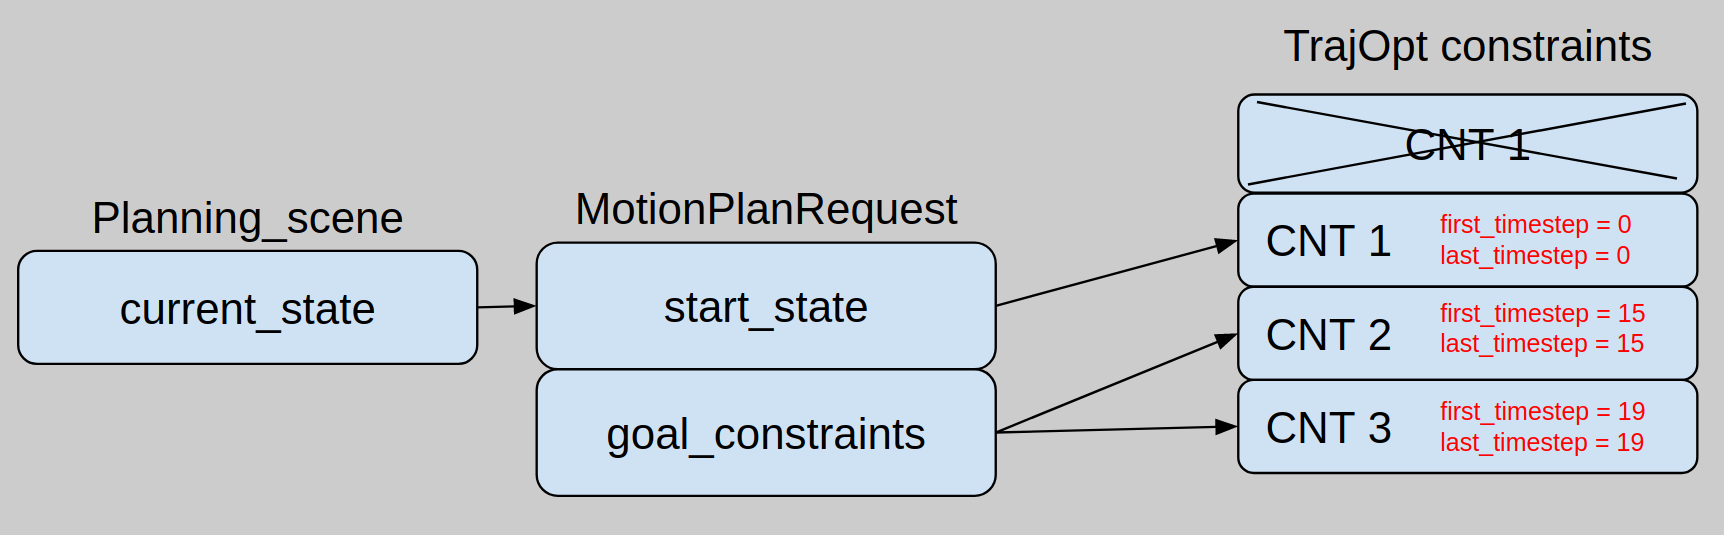
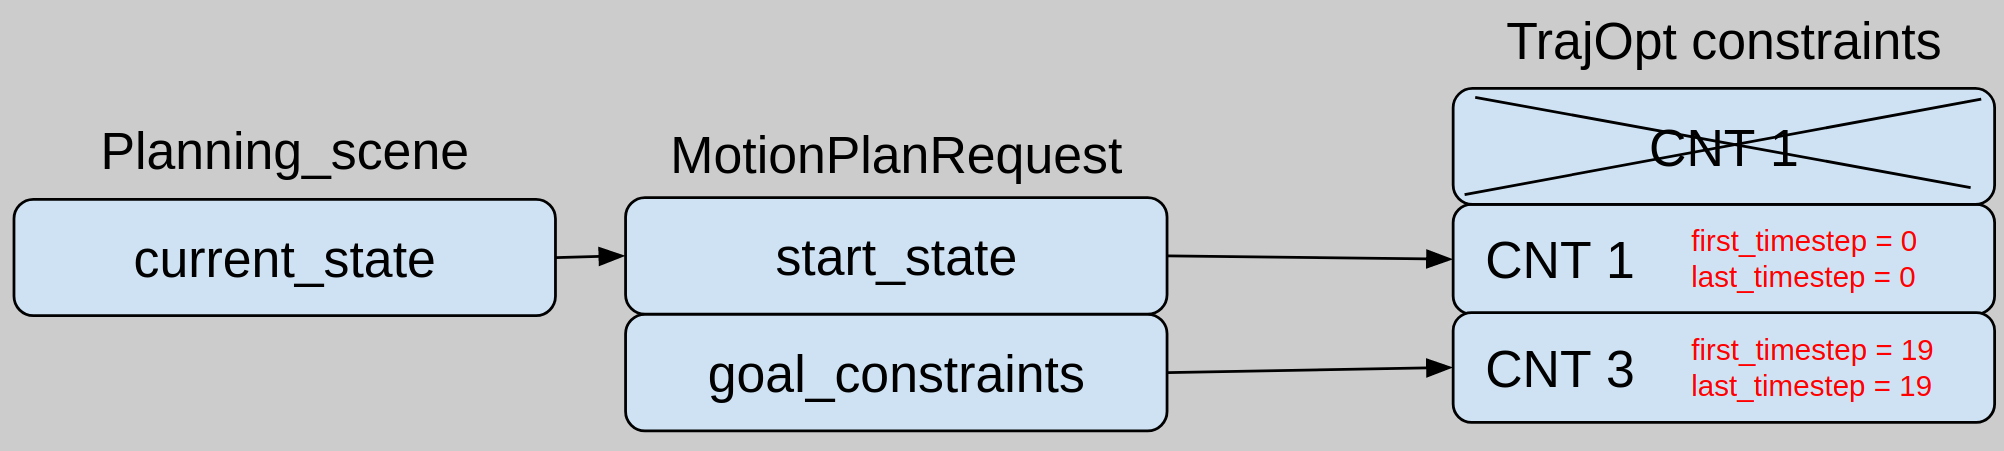
addressed the comments

diff --git a/doc/trajopt_planner/src/trajopt_example.cpp b/doc/trajopt_planner/src/trajopt_example.cpp
@@ -2,13 +2,10 @@
 #include <ros/console.h>
 #include <moveit/planning_interface/planning_interface.h>
 
-#include <moveit/move_group_interface/move_group_interface.h>
-#include <moveit/planning_scene_interface/planning_scene_interface.h>
-
 #include <moveit/robot_model_loader/robot_model_loader.h>
 #include <moveit/planning_scene/planning_scene.h>
 #include <moveit/robot_state/robot_state.h>
-
+#include <moveit/planning_pipeline/planning_pipeline.h>
 #include <moveit/planning_scene_monitor/planning_scene_monitor.h>
 #include <moveit/kinematic_constraints/utils.h>
 #include <moveit_visual_tools/moveit_visual_tools.h>
@@ -41,23 +38,42 @@ int main(int argc, char** argv)
   const std::string ROBOT_DESCRIPTION = "robot_description";
   robot_model_loader::RobotModelLoaderPtr robot_model_loader(
       new robot_model_loader::RobotModelLoader(ROBOT_DESCRIPTION));
+
+  // Create a planing scene monitor
+  planning_scene_monitor::PlanningSceneMonitorPtr psm(
+      new planning_scene_monitor::PlanningSceneMonitor(robot_model_loader));
+
+  psm->startSceneMonitor();
+  psm->startWorldGeometryMonitor();
+  psm->startStateMonitor();
+
   robot_model::RobotModelPtr robot_model = robot_model_loader->getModel();
 
-  // Create a RobotState and JointModelGroup to keep track of the current robot pose and planning group
-  robot_state::RobotStatePtr current_state(new robot_state::RobotState(robot_model));
-  current_state->setToDefaultValues();
+  // Create a RobotState and to keep track of the current robot pose and planning group
+  robot_state::RobotStatePtr robot_state(
+      new robot_state::RobotState(planning_scene_monitor::LockedPlanningSceneRO(psm)->getCurrentState()));
+  robot_state->setToDefaultValues();
+  robot_state->update();
 
-  const robot_state::JointModelGroup* joint_model_group = current_state->getJointModelGroup(PLANNING_GROUP);
+  // Create JointModelGroup
+  const robot_state::JointModelGroup* joint_model_group = robot_state->getJointModelGroup(PLANNING_GROUP);
   const std::vector<std::string>& joint_names = joint_model_group->getActiveJointModelNames();
+  const std::vector<std::string>& link_model_names = joint_model_group->getLinkModelNames();
+  ROS_INFO_NAMED(NODE_NAME, "end effector name %s\n", link_model_names.back().c_str());
 
-  // With the planning scene we create a planing scene monitor
-  planning_scene_monitor::PlanningSceneMonitorPtr psm(new planning_scene_monitor::PlanningSceneMonitor(ROBOT_DESCRIPTION));
-  psm->startPublishingPlanningScene(planning_scene_monitor::PlanningSceneMonitor::UPDATE_SCENE);
-  psm->startStateMonitor();
-  psm->startSceneMonitor();
+  // Set the planner
+  std::string planner_plugin_name = "trajopt_interface/TrajOptPlanner";
+  node_handle.setParam("planning_plugin", planner_plugin_name);
 
-  planning_scene::PlanningScenePtr planning_scene = psm->getPlanningScene();
+  // Create pipeline
+  planning_pipeline::PlanningPipelinePtr planning_pipeline(
+     new planning_pipeline::PlanningPipeline(robot_model, node_handle, "planning_plugin", "request_adapters"));
 
+  // Current state
+  geometry_msgs::Pose pose_msg_current;
+  const Eigen::Isometry3d& end_effector_transform_current = robot_state->getGlobalLinkTransform(link_model_names.back());
+  pose_msg_current = tf2::toMsg(end_effector_transform_current);
+  
   // Create response and request
   planning_interface::MotionPlanRequest req;
   planning_interface::MotionPlanResponse res;
@@ -74,94 +90,38 @@ int main(int argc, char** argv)
   //   -2.8973  2.8973
 
   std::vector<double> start_joint_values = { 0.4, 0.3, 0.5, -0.55, 0.88, 1.0, -0.075 };
-  robot_state::RobotStatePtr start_state(new robot_state::RobotState(robot_model));
-  start_state->setJointGroupPositions(joint_model_group, start_joint_values);
-  start_state->update();
+  robot_state->setJointGroupPositions(joint_model_group, start_joint_values);
+  robot_state->update();
 
   req.start_state.joint_state.name = joint_names;
   req.start_state.joint_state.position = start_joint_values;
   req.goal_constraints.clear();
   req.group_name = PLANNING_GROUP;
 
-  // Set the middle and goal state and joints tolerance
+  geometry_msgs::Pose pose_msg_start;
+  const Eigen::Isometry3d& end_effector_transform_start = robot_state->getGlobalLinkTransform(link_model_names.back());
+  pose_msg_start = tf2::toMsg(end_effector_transform_start);
+  
+  // Set the goal state 
   // ========================================================================================
-  robot_state::RobotStatePtr middle_state(new robot_state::RobotState(robot_model));
-  std::vector<double> middle_joint_values = { 0.5, 0.4, 0.65, -0.75, 1.05, 1.25, -0.15 };
-  middle_state->setJointGroupPositions(joint_model_group, middle_joint_values);
-  middle_state->update();
-  moveit_msgs::Constraints joint_middle =
-      kinematic_constraints::constructGoalConstraints(*middle_state, joint_model_group);
-  req.goal_constraints.push_back(joint_middle);
-  req.goal_constraints[0].name = "middle_pos";
+  std::vector<double> goal_joint_values = { 0.8, 0.7, 1, -1.3, 1.9, 2.2, -0.1 };
+  robot_state->setJointGroupPositions(joint_model_group, goal_joint_values);
+  robot_state->update();
+  moveit_msgs::Constraints joint_goal = kinematic_constraints::constructGoalConstraints(*robot_state, joint_model_group);
+  req.goal_constraints.push_back(joint_goal);
+  req.goal_constraints[0].name = "goal_pos";
   // Set joint tolerance
-  std::vector<moveit_msgs::JointConstraint> middle_joint_constraint = req.goal_constraints[0].joint_constraints;
-  for (std::size_t x = 0; x < middle_joint_constraint.size(); ++x)
+  std::vector<moveit_msgs::JointConstraint> goal_joint_constraint = req.goal_constraints[0].joint_constraints;
+  for (std::size_t x = 0; x < goal_joint_constraint.size(); ++x)
   {
-    ROS_INFO_STREAM_NAMED(NODE_NAME, " ======================================= joint position at goal: " <<
-                           middle_joint_constraint[x].position);
+    ROS_INFO_STREAM_NAMED(NODE_NAME ," ======================================= joint position at goal: " << goal_joint_constraint[x].position);
     req.goal_constraints[0].joint_constraints[x].tolerance_above = 0.001;
     req.goal_constraints[0].joint_constraints[x].tolerance_below = 0.001;
   }
 
-  robot_state::RobotStatePtr goal_state(new robot_state::RobotState(robot_model));
-  std::vector<double> goal_joint_values = { 0.8, 0.7, 1, -1.3, 1.9, 2.2, -0.1 };
-  goal_state->setJointGroupPositions(joint_model_group, goal_joint_values);
-  goal_state->update();
-  moveit_msgs::Constraints joint_goal = kinematic_constraints::constructGoalConstraints(*goal_state, joint_model_group);
-  req.goal_constraints.push_back(joint_goal);
-  req.goal_constraints[1].name = "goal_pos";
-  // Set joint tolerance
-  std::vector<moveit_msgs::JointConstraint> goal_joint_constraint = req.goal_constraints[1].joint_constraints;
-  for (std::size_t x = 0; x < goal_joint_constraint.size(); ++x)
-  {
-    ROS_INFO_STREAM_NAMED(NODE_NAME ," ======================================= joint position at goal: " << goal_joint_constraint[x].position);
-    req.goal_constraints[1].joint_constraints[x].tolerance_above = 0.001;
-    req.goal_constraints[1].joint_constraints[x].tolerance_below = 0.001;
-  }
-
-  // Load planner
-  // ======================================================================================
-  while (!psm->getStateMonitor()->haveCompleteState() && ros::ok())
-  {
-    ROS_INFO_STREAM_THROTTLE_NAMED(1, NODE_NAME, "Waiting for complete state from topic ");
-  }
-  // We will now construct a loader to load a planner, by name.
-  // Note that we are using the ROS pluginlib library here.
-  boost::scoped_ptr<pluginlib::ClassLoader<planning_interface::PlannerManager>> planner_plugin_loader;
-  planning_interface::PlannerManagerPtr planner_instance;
-
-  std::string planner_plugin_name = "trajopt_interface/TrajOptPlanner";
-  node_handle.setParam("planning_plugin", planner_plugin_name);
-
-  // Make sure the planner plugin is loaded
-  if (!node_handle.getParam("planning_plugin", planner_plugin_name))
-    ROS_FATAL_STREAM_NAMED(NODE_NAME, "Could not find planner plugin name");
-  try
-  {
-    planner_plugin_loader.reset(new pluginlib::ClassLoader<planning_interface::PlannerManager>(
-        "moveit_core", "planning_interface::PlannerManager"));
-    ROS_INFO_STREAM_NAMED(NODE_NAME, "planner_plugin_name: " << planner_plugin_name);
-  }
-  catch (pluginlib::PluginlibException& ex)
-  {
-    ROS_FATAL_STREAM_NAMED(NODE_NAME, "Exception while creating planning plugin loader " << ex.what());
-  }
-  try
-  {
-    planner_instance.reset(planner_plugin_loader->createUnmanagedInstance(planner_plugin_name));
-    if (!planner_instance->initialize(robot_model, node_handle.getNamespace()))
-      ROS_FATAL_STREAM_NAMED(NODE_NAME, "Could not initialize planner instance");
-    ROS_INFO_STREAM_NAMED(NODE_NAME ,"Using planning interface '" << planner_instance->getDescription() << "'");
-  }
-  catch (pluginlib::PluginlibException& ex)
-  {
-    const std::vector<std::string>& classes = planner_plugin_loader->getDeclaredClasses();
-    std::stringstream ss;
-    for (std::size_t i = 0; i < classes.size(); ++i)
-      ss << classes[i] << " ";
-    ROS_ERROR_STREAM_NAMED(NODE_NAME, "Exception while loading planner '" << planner_plugin_name << "': " << ex.what() << std::endl
-                                                         << "Available plugins: " << ss.str());
-  }
+  geometry_msgs::Pose pose_msg_goal;
+  const Eigen::Isometry3d& end_effector_transform_goal = robot_state->getGlobalLinkTransform(link_model_names.back());
+  pose_msg_goal = tf2::toMsg(end_effector_transform_goal);
 
   // Visualization
   // ========================================================================================
@@ -187,15 +147,19 @@ int main(int argc, char** argv)
   /* We can also use visual_tools to wait for user input */
   visual_tools.prompt("Press 'next' in the RvizVisualToolsGui window to start the demo");
 
-  // Creat planning context
+  // Solve the problem
   // ========================================================================================
-  planning_interface::PlanningContextPtr context =
-      planner_instance->getPlanningContext(planning_scene, req, res.error_code_);
-
-  context->solve(res);
+  // Before planning, we will need a Read Only lock on the planning scene so that it does not modify the world
+  // representation while planning
+  {
+    planning_scene_monitor::LockedPlanningSceneRO lscene(psm);
+    /* Now, call the pipeline and check whether planning was successful. */
+    planning_pipeline->generatePlan(lscene, req, res);
+  }
+  /* Check that the planning was successful */
   if (res.error_code_.val != res.error_code_.SUCCESS)
   {
-    ROS_ERROR_NAMED(NODE_NAME, "Could not compute plan successfully");
+    ROS_ERROR_STREAM_NAMED(NODE_NAME, "Could not compute plan successfully");
     return 0;
   }
 
@@ -213,14 +177,15 @@ int main(int argc, char** argv)
 
   for (int timestep_index = 0; timestep_index < response.trajectory.joint_trajectory.points.size(); ++timestep_index)
   {
+    std::stringstream joint_values_stream;
     for (int joint_index = 0;
          joint_index < response.trajectory.joint_trajectory.points[timestep_index].positions.size(); ++joint_index)
     {
-      std::cout << response.trajectory.joint_trajectory.points[timestep_index].positions[joint_index] << "  ";
+      joint_values_stream << response.trajectory.joint_trajectory.points[timestep_index].positions[joint_index] << " ";
     }
-    std::cout << std::endl;
+    ROS_DEBUG_STREAM_NAMED(NODE_NAME, "step: " << timestep_index << " joints positions: " << joint_values_stream.str() );
   }
-
+    
   display_trajectory.trajectory_start = response.trajectory_start;
   display_trajectory.trajectory.push_back(response.trajectory);
 
@@ -228,40 +193,13 @@ int main(int argc, char** argv)
   visual_tools.trigger();
   display_publisher.publish(display_trajectory);
 
-  const std::vector<std::string>& link_model_names = joint_model_group->getLinkModelNames();
-  ROS_INFO_NAMED(NODE_NAME, "end effector name %s\n", link_model_names.back().c_str());
-
-  const Eigen::Affine3d& end_effector_transform_current = current_state->getGlobalLinkTransform(link_model_names.back());
-  geometry_msgs::PoseStamped pose_msg;
-  pose_msg.header.stamp = ros::Time::now();
-  pose_msg.header.frame_id = robot_model->getModelFrame();
-  pose_msg.pose = tf2::toMsg(end_effector_transform_current);
-
-  visual_tools.publishAxisLabeled(pose_msg.pose, "current");
+  visual_tools.publishAxisLabeled(pose_msg_current, "current");
   visual_tools.publishText(text_pose, "current pose", rvt::WHITE, rvt::XLARGE);
 
-  const Eigen::Affine3d& end_effector_transform_start = start_state->getGlobalLinkTransform(link_model_names.back());
-  pose_msg.header.stamp = ros::Time::now();
-  pose_msg.header.frame_id = robot_model->getModelFrame();
-  pose_msg.pose = tf2::toMsg(end_effector_transform_start);
-
-  visual_tools.publishAxisLabeled(pose_msg.pose, "start");
+  visual_tools.publishAxisLabeled(pose_msg_start, "start");
   visual_tools.publishText(text_pose, "start pose", rvt::BLUE, rvt::XLARGE);
 
-  const Eigen::Affine3d& end_effector_transform_middle = middle_state->getGlobalLinkTransform(link_model_names.back());
-  pose_msg.header.stamp = ros::Time::now();
-  pose_msg.header.frame_id = robot_model->getModelFrame();
-  pose_msg.pose = tf2::toMsg(end_effector_transform_middle);
-
-  visual_tools.publishAxisLabeled(pose_msg.pose, "middle");
-  visual_tools.publishText(text_pose, "middle pose", rvt::RED, rvt::XLARGE);
-
-  const Eigen::Affine3d& end_effector_transform_goal = goal_state->getGlobalLinkTransform(link_model_names.back());
-  pose_msg.header.stamp = ros::Time::now();
-  pose_msg.header.frame_id = robot_model->getModelFrame();
-  pose_msg.pose = tf2::toMsg(end_effector_transform_goal);
-
-  visual_tools.publishAxisLabeled(pose_msg.pose, "goal");
+  visual_tools.publishAxisLabeled(pose_msg_goal, "goal");
   visual_tools.publishText(text_pose, "goal pose", rvt::WHITE, rvt::XLARGE);
   visual_tools.trigger();
 

diff --git a/doc/trajopt_planner/trajopt_planner_tutorial.rst b/doc/trajopt_planner/trajopt_planner_tutorial.rst
@@ -40,11 +40,13 @@ To use TrajOpt with your robot you must already have a MoveIt configuration pack
 
 Running the Demo
 ----------------
-If you have the ``panda_moveit_config`` from the `ros-planning/panda_moveit_config <https://github.com/ros-planning/panda_moveit_config>`_ repository you should be able to simply run the example: ::
+To run the example, you need to run ``panda_moveit_config`` from the `ros-planning/panda_moveit_config <https://github.com/ros-planning/panda_moveit_config>`_ repository at first by passing ``trajopt`` as the planner: ::
+
+  roslaunch panda_moveit_config demo.launch  pipeline:=trajopt
+
+Then you can run the trajopt example from `ros-planning/moveit_tutorials <https://github.com/ros-planning/moveit_tutorials>`_: ::
 
   roslaunch moveit_tutorials trajopt_example_launch.launch
-
-This will run ``demo.launch`` from ``panda_moveit_config`` with passing ``trajopt`` for ``pipeline`` argument as the planner and runs the ``trajopt_example`` node.
 
 How TrajOpt works
 -----------------
@@ -70,13 +72,13 @@ Motion planning problem in TrajOpt is defined by a set of cost (COST) and constr
 
   - *targets*: the values of the joints at the constraint
 
-  - *upper_tols*: the upper limits for joint values at the constraint.
+  - *upper_tols*: the upper limits for joint values at the constraint
 
-  - *lower_tols*: the lower limits for joint values at the constraint.
+  - *lower_tols*: the lower limits for joint values at the constraint
 
-  - *first_step*: the first step that is the term is applied to.
+  - *first_step*: the first step that is the term is applied to
 
-  - *last_step*: the last step that is the term is applied to.
+  - *last_step*: the last step that is the term is applied to
 
 Moreover, the algorithm needs parameters specific to ``BasicTrustRegionSQP`` which are defined in a yaml file under *trajopt_param*.
 
